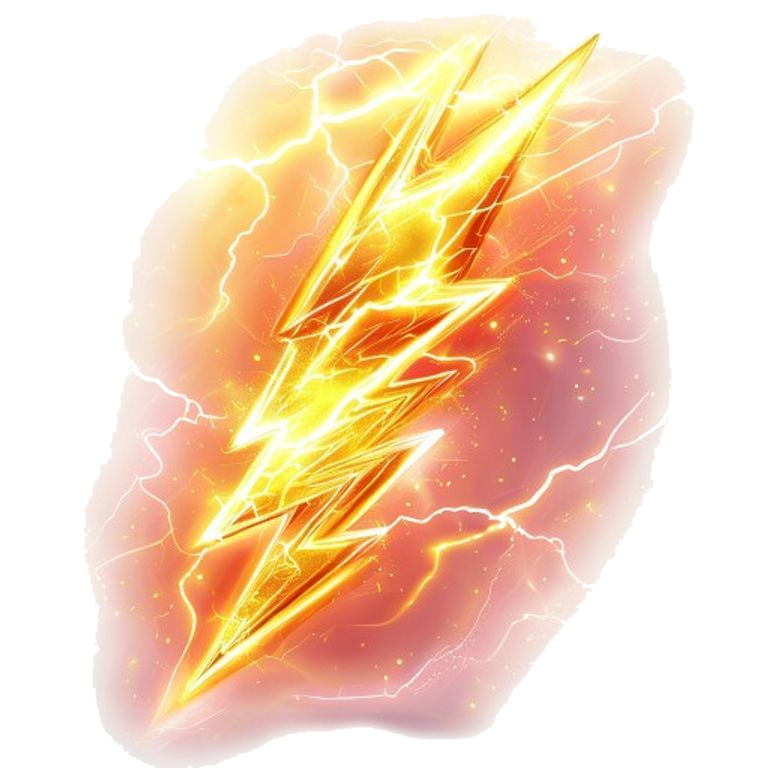
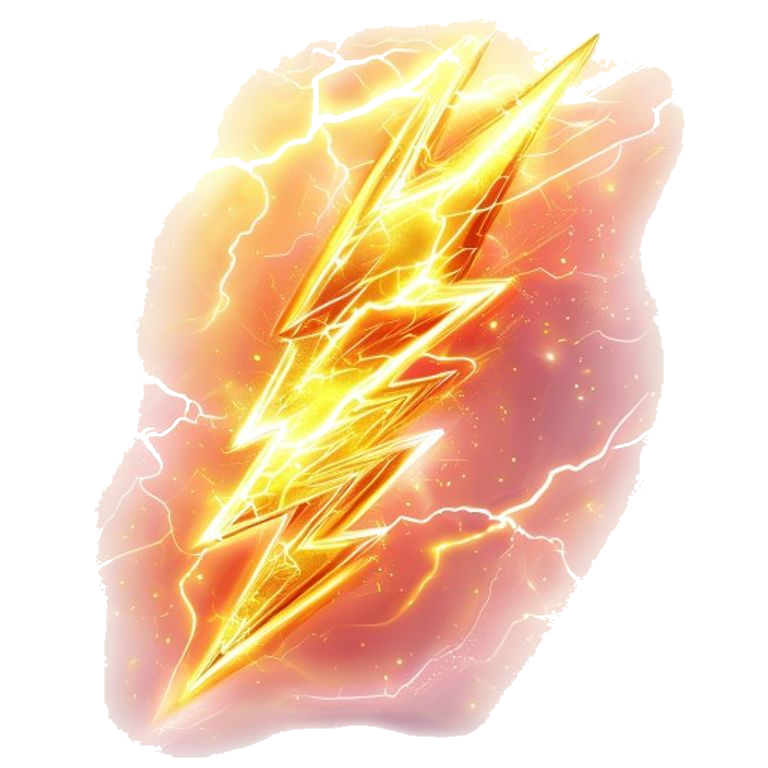
fix: เก็บตกพื้นหลังครีม/ขาวที่เหลือของสกิล+ป้อมกาลเวลา (v3.24.30)
skill_attack.png + tower_time.png มีพื้นครีม (min-channel<232) หลุด
flood fill รอบก่อน — reprocess threshold 220 ให้โปร่งใสสมบูรณ์
(aura ม่วงป้อมกาลเวลาที่แตะขอบเป็น art คงไว้)

diff --git a/Tower Quest 🏰.html b/Tower Quest 🏰.html
@@ -3,7 +3,7 @@
 
 <meta name="viewport" content="width=device-width, initial-scale=1.0, maximum-scale=1.0, user-scalable=no">
 <title>Tower Quest 🏰</title>
-<link rel="stylesheet" href="css/main.css?v=3.24.29">
+<link rel="stylesheet" href="css/main.css?v=3.24.30">
 </head>
 <body>
 
@@ -59,7 +59,7 @@
   <div class="island" id="logoIsland">🏰</div>
   <div class="gtitle">TOWER QUEST</div>
   <div class="gsub">⚔ ปกป้องอาณาจักรของคุณ!</div>
-  <div id="verBtn" style="font-size:10px;color:rgba(255,224,130,.45);letter-spacing:1px;margin-top:-18px;margin-bottom:18px;cursor:pointer;">📰 v3.24.29 — มีอะไรใหม่<span id="newsBadge" class="news-badge" style="display:none;"></span></div>
+  <div id="verBtn" style="font-size:10px;color:rgba(255,224,130,.45);letter-spacing:1px;margin-top:-18px;margin-bottom:18px;cursor:pointer;">📰 v3.24.30 — มีอะไรใหม่<span id="newsBadge" class="news-badge" style="display:none;"></span></div>
 
   <!-- battle buttons -->
   <button class="bbattle" id="startBtn">⚔ โหมดเนื้อเรื่อง</button>
@@ -920,15 +920,15 @@
     <button class="obtn" onclick="closeSettings()">✔ ปิด</button>
   </div>
 </div>
-<script src="js/cloud-save.js?v=3.24.29"></script>
-<script src="js/save.js?v=3.24.29"></script>
-<script src="js/enemy.js?v=3.24.29"></script>
-<script src="js/tower.js?v=3.24.29"></script>
-<script src="js/game.js?v=3.24.29"></script>
-<script src="js/ui-data.js?v=3.24.29"></script>
-<script src="js/ui-profile.js?v=3.24.29"></script>
-<script src="js/ui-casino.js?v=3.24.29"></script>
-<script src="js/ui.js?v=3.24.29"></script>
+<script src="js/cloud-save.js?v=3.24.30"></script>
+<script src="js/save.js?v=3.24.30"></script>
+<script src="js/enemy.js?v=3.24.30"></script>
+<script src="js/tower.js?v=3.24.30"></script>
+<script src="js/game.js?v=3.24.30"></script>
+<script src="js/ui-data.js?v=3.24.30"></script>
+<script src="js/ui-profile.js?v=3.24.30"></script>
+<script src="js/ui-casino.js?v=3.24.30"></script>
+<script src="js/ui.js?v=3.24.30"></script>
 
 
 </body></html>

diff --git a/js/ui-data.js b/js/ui-data.js
@@ -1,6 +1,10 @@
 /* ══ WHAT'S NEW (patch notes) ══ */
-const GAME_VERSION='3.24.29';
+const GAME_VERSION='3.24.30';
 const PATCH_NOTES=[
+  {ver:'3.24.30',date:'2026-07-02',title:'🧼 ลบพื้นหลังครีม/ขาวที่เหลือของการ์ดสกิล',notes:[
+    'เก็บตกพื้นหลังสีครีมของ skill_attack (พลังโจมตี) และป้อมกาลเวลาที่ยังหลงเหลือ',
+    'การ์ดสกิลทุกใบพื้นหลังโปร่งใสสมบูรณ์',
+  ]},
   {ver:'3.24.29',date:'2026-07-02',title:'🧼 ลบพื้นหลังสีขาวของรูปป้อม/สกิลทั้งหมด',notes:[
     'รูปป้อมและการ์ดสกิลทุกใบทำพื้นหลังโปร่งใส ไม่มีกล่องขาวรอบรูปอีกต่อไป',
     'การ์ดที่เลือกโชว์รูปสวยเต็มๆ บนพื้นการ์ด',

diff --git a/CHANGELOG.md b/CHANGELOG.md
@@ -2,6 +2,11 @@
 
 All notable changes to Tower Quest 🏰 will be documented in this file.
 
+## v3.24.30 — เก็บตกพื้นหลังครีม/ขาวที่เหลือ
+
+### Fixed
+- `assets/images/skill_attack.png` + `tower_time.png`: พื้นหลังบางส่วนเป็นสีครีม (min-channel < 232) จึงหลุด flood fill รอบก่อน — reprocess ด้วย threshold 220 ให้พื้นหลังโปร่งใสสมบูรณ์ (aura ม่วงของป้อมกาลเวลาที่แตะขอบเป็นส่วนของ art คงไว้)
+
 ## v3.24.29 — ลบพื้นหลังสีขาวของรูปป้อม/สกิลทั้งหมด
 
 ### Changed

diff --git a/PROJECT_MASTER.md b/PROJECT_MASTER.md
@@ -3,7 +3,7 @@
 This document is a system-by-system map of the game as implemented in
 [`Tower Quest 🏰.html`](Tower%20Quest%20%F0%9F%8F%B0.html) plus its
 `css/main.css` and `js/{save,enemy,tower,game,ui}.js` modules (current
-version **v3.24.29**). Line numbers refer to these files and
+version **v3.24.30**). Line numbers refer to these files and
 may drift as they change — use them as a starting point for searches, not as
 permanent anchors.
 

diff --git a/CLAUDE.md b/CLAUDE.md
@@ -5,7 +5,7 @@ Guidance for Claude Code (and other AI assistants) working in this repository.
 ## Project Summary
 
 **Tower Quest 🏰** is a browser-based tower defense game written in
-Thai, currently at **v3.24.29**. Since the v1.6.1 refactor, the game is split
+Thai, currently at **v3.24.30**. Since the v1.6.1 refactor, the game is split
 across:
 
 - [`Tower Quest 🏰.html`](Tower%20Quest%20%F0%9F%8F%B0.html) — head/body
